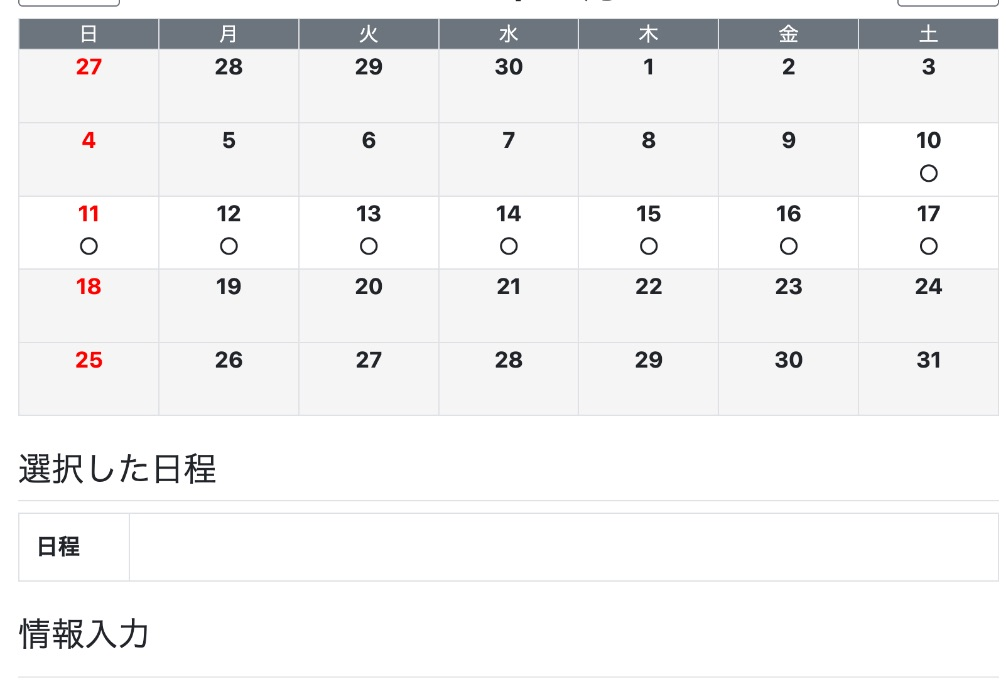
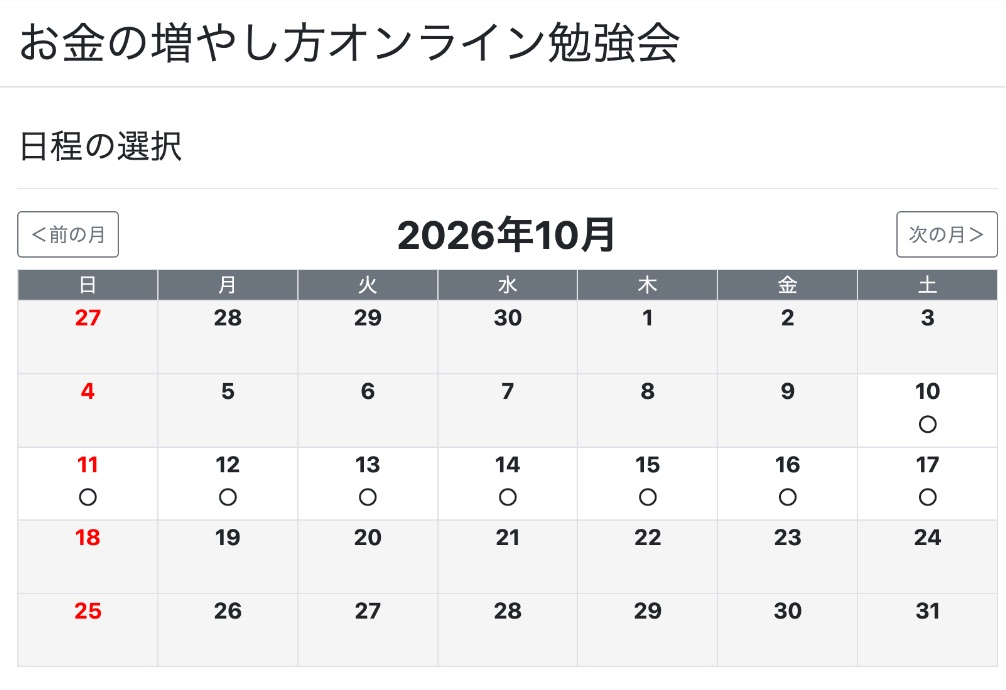
見出しの改行と画面写真を修正

diff --git a/index.html b/index.html
@@ -47,6 +47,9 @@ section{display:flex;flex-direction:column;gap:16px}
 .gold{background:var(--goldbg);border:2px solid var(--goldfill);border-radius:16px;padding:20px;display:flex;flex-direction:column;gap:8px}
 .gold b{color:var(--gold)}
 strong,b{font-weight:900}
+.nb{display:inline-block}
+h1,h2,h3,.flow b,.q,.gold p{word-break:auto-phrase;text-wrap:balance;line-break:strict}
+p,small,.note,.steps div,.check div{word-break:auto-phrase;text-wrap:pretty;line-break:strict}
 .mk{background:linear-gradient(transparent 62%,var(--goldbg) 62%);font-weight:900}
 
 /* しくみの流れ */
@@ -110,11 +113,11 @@ figure img{border:2px solid var(--line);border-radius:14px;width:100%;max-width:
 <header class="hero">
   <div class="txt">
     <span class="tag">尾道さんへ</span>
-    <h1>空いている時間に、勉強会の予約が自動で入ります</h1>
+    <h1><span class="nb">空いている時間に、</span><span class="nb">勉強会の予約が</span><span class="nb">自動で入ります</span></h1>
     <div class="lead">
       <p>やることは1つだけです。</p>
-      <p><span class="mk">Googleカレンダーを、いつもどおり使うこと。</span></p>
-      <p>森川に日程を伝える必要は、もうありません。</p>
+      <p><span class="nb mk">Googleカレンダーを、</span><span class="nb mk">いつもどおり使うこと。</span></p>
+      <p><span class="nb">森川に日程を伝える必要は、</span><span class="nb">もうありません。</span></p>
     </div>
   </div>
   <img src="img/mascot_invite.webp" alt="そろばんを持ったロボットが両手を広げている">
